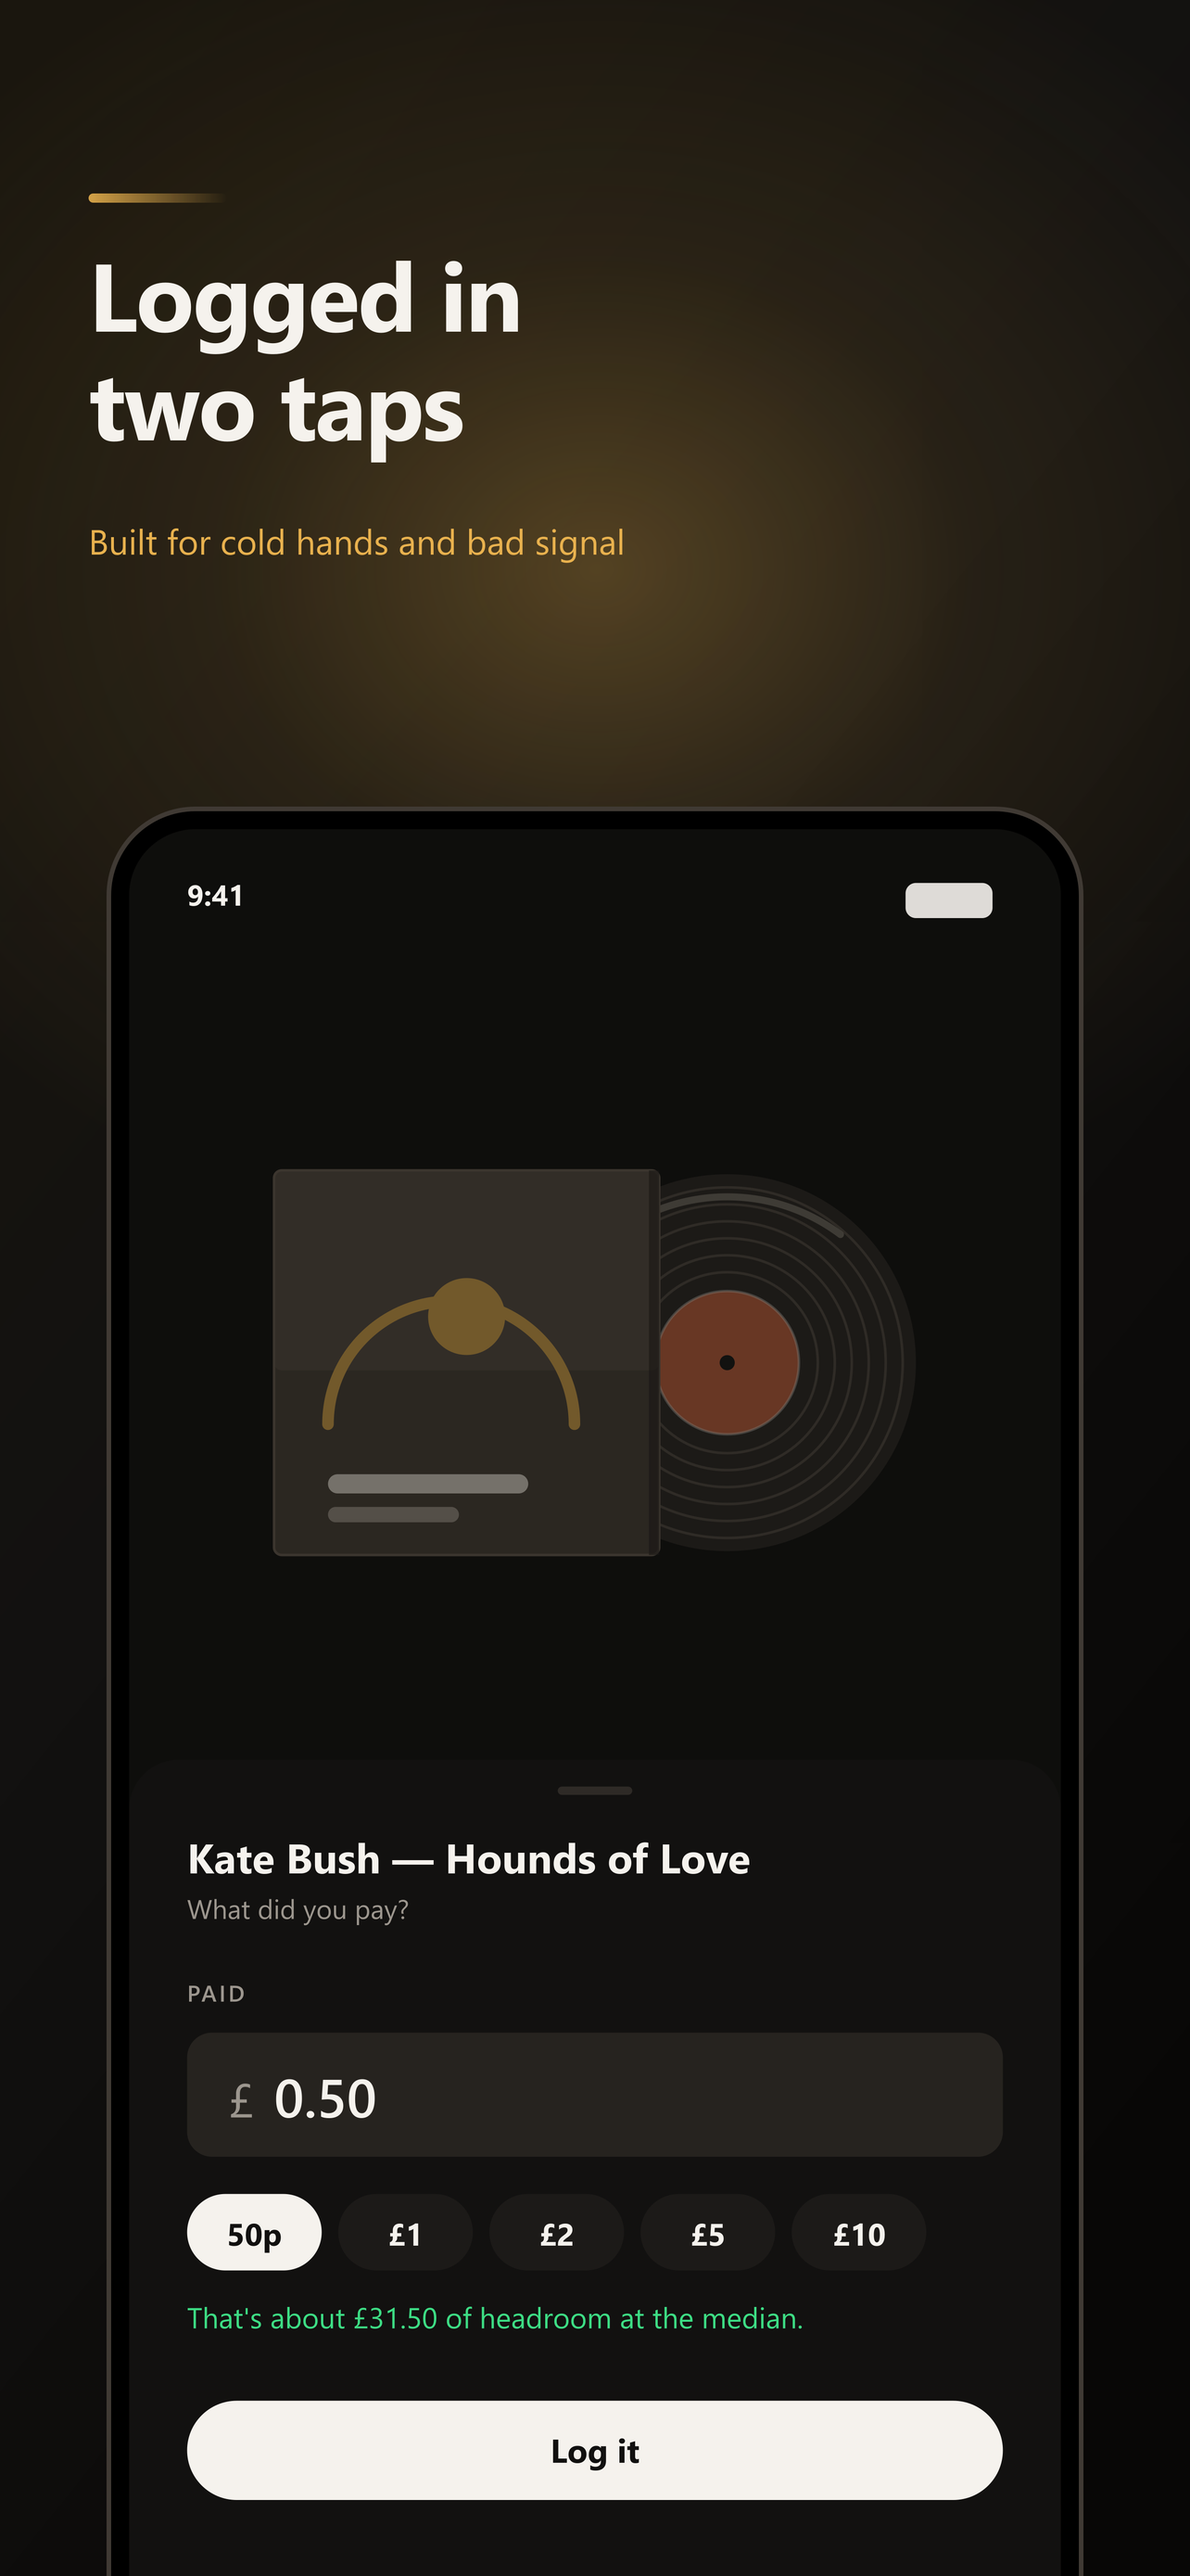
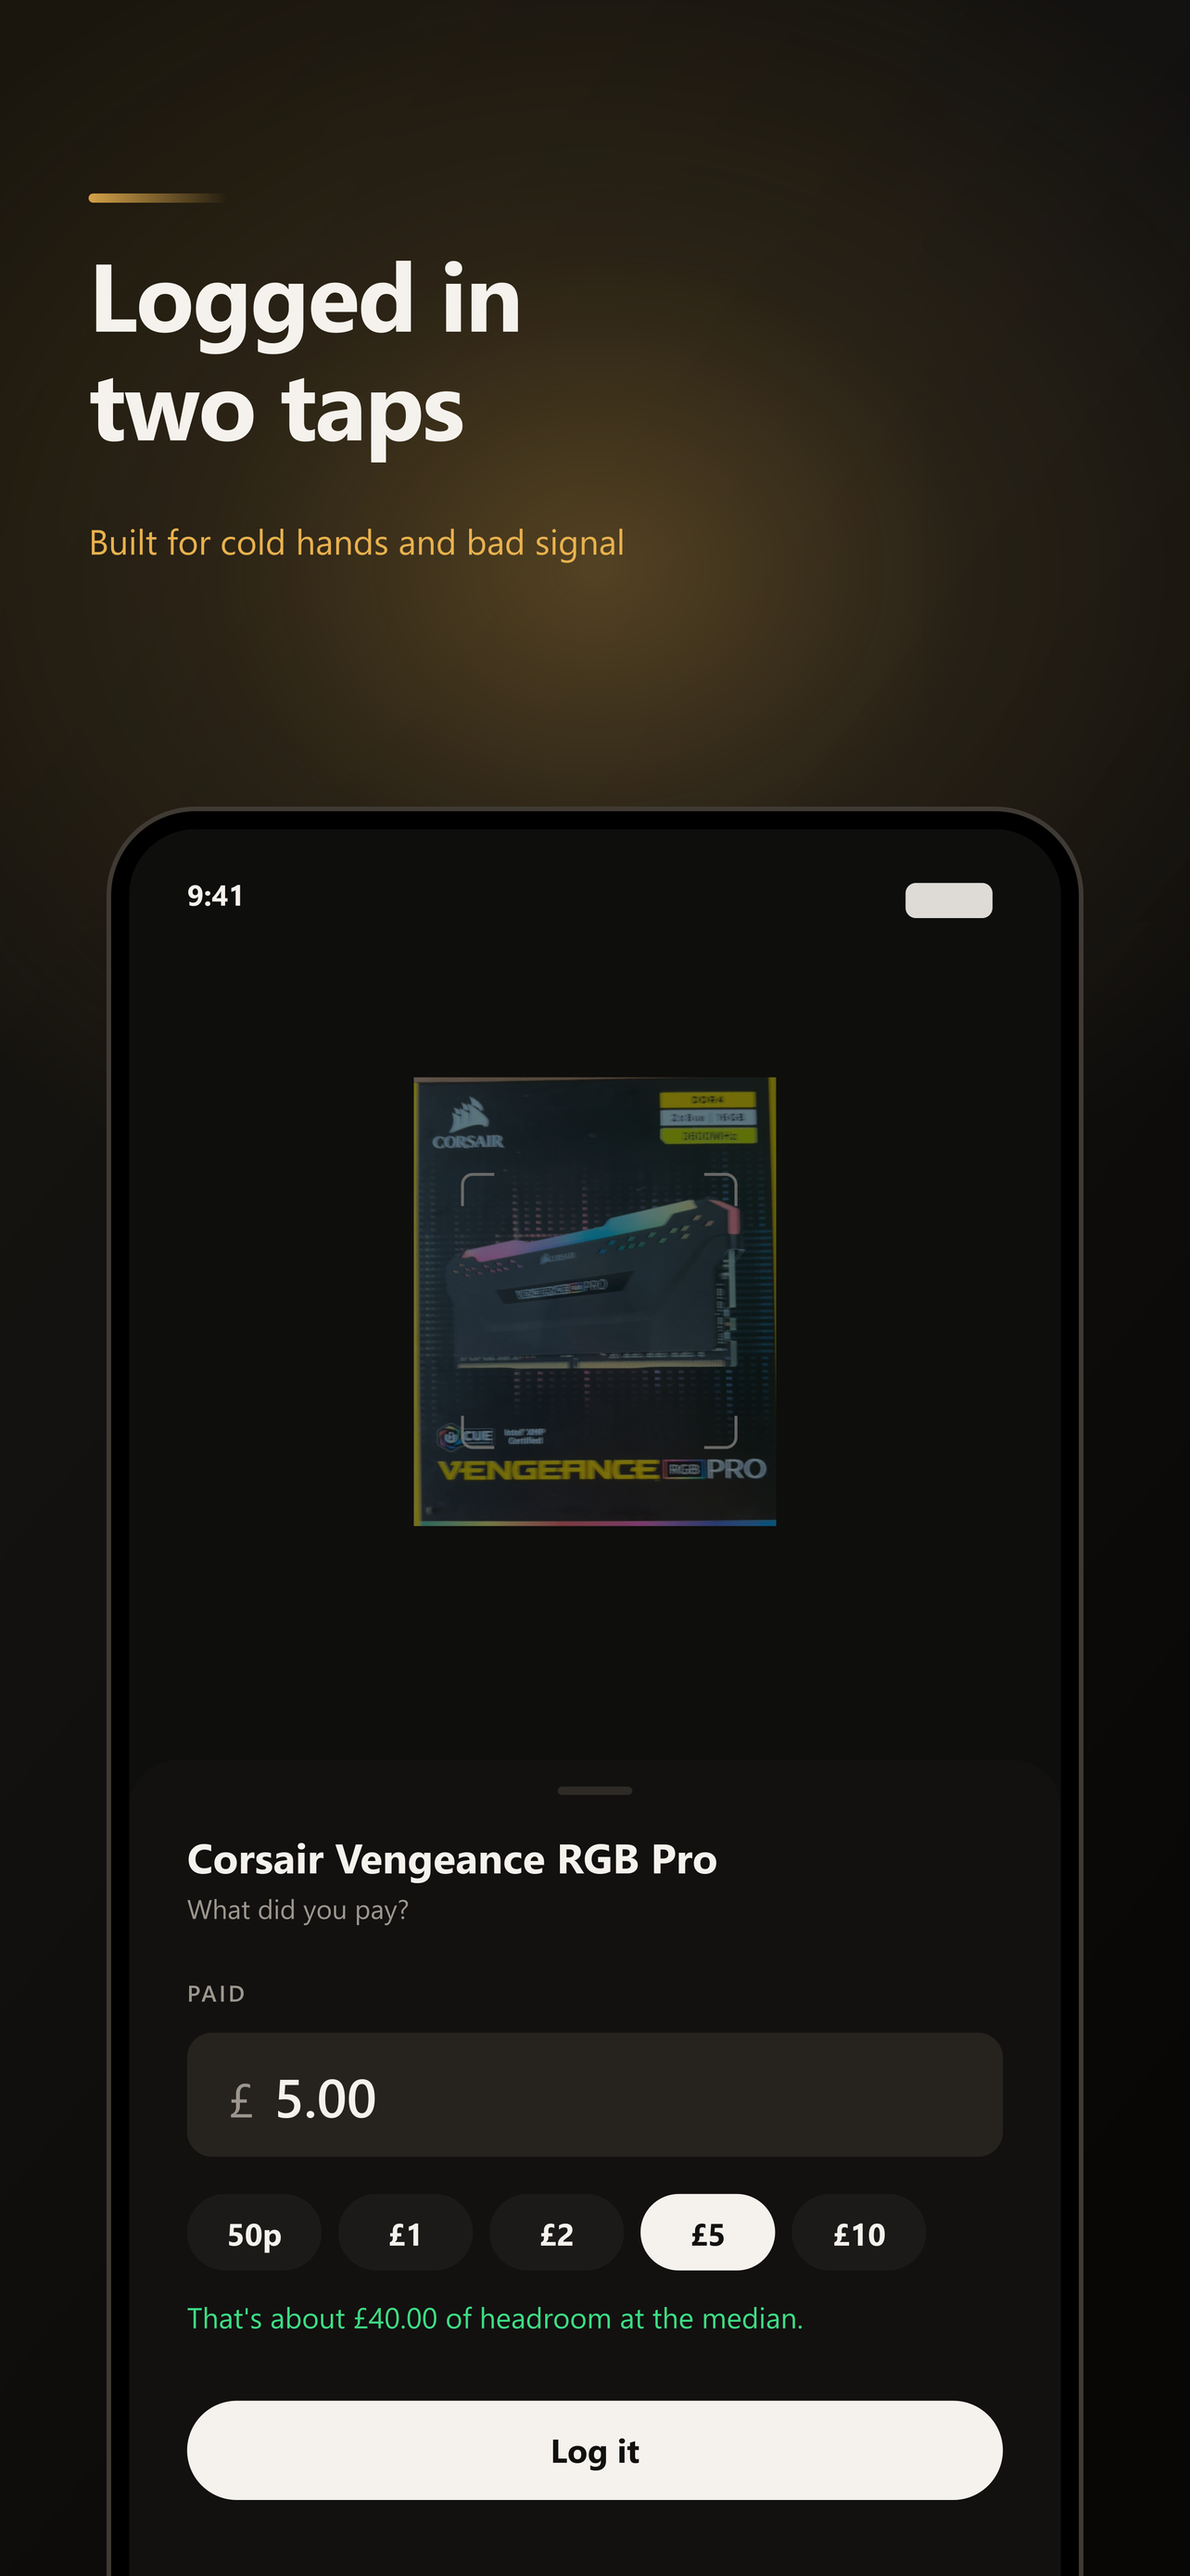
Real researched prices in the screenshots, and take the location out
Prices. The Corsair kit was showing a £38.50 median pulled out of the air.
A used Vengeance RGB Pro 16GB (2x8GB) DDR4-3600 sold on eBay UK at £45, with
a Gumtree listing at £60, so it's now £45 inside a £34-£62 spread and an £18
max buy — which is 40% of the median, the arithmetic in lib/money.ts and
nothing else. "Game Boy, boxed" was selling for £45, but £30-80 is a LOOSE
grey DMG-01 and boxed is a different animal; it's £120 now, with the profit
recomputed through the same fees and postage.

With GEMINI_WEB_PRICES on, the app can price a RAM kit, so shots 2-4 go back
to Jonny's own photo of one instead of the record they had to be while
Discogs was the only source. The caption says asking prices, because that is
what a web search returns. STORE.md records that this depends on the flag —
turn it off and a record has to go back in.

Location. "Made in Northern Ireland" in Settings and on the store listing,
"Bought in Lisburn" on screenshot 6, a Lisburn test fixture, and a governing
-law clause naming the jurisdiction. All gone: the app now says "Built by
one person" and the terms say the United Kingdom.

One thing this does not solve, and cannot: an app with in-app purchases has
a seller name and address published on its App Store page under Apple's
trader requirements. That comes from the App Store Connect account, not from
anything in this repo.

The store description is rewritten for both changes — it now leads with
[…]

diff --git a/server/test/export.test.ts b/server/test/export.test.ts
@@ -79,7 +79,7 @@ describe("GET /v1/finds/export", () => {
       body: JSON.stringify({
         name: "Sony Walkman, boxed",
         boughtPricePence: 50,
-        notes: "Car boot, Lisburn",
+        notes: "Sunday boot sale, second row",
       }),
     });
     const { find } = (await created.json()) as { find: { id: string } };
@@ -111,7 +111,7 @@ describe("GET /v1/finds/export", () => {
     expect(row).toContain("0.50");
     expect(row).toContain("42.00");
     expect(row).toContain("32.55");
-    expect(row).toContain("Car boot");
+    expect(row).toContain("Sunday boot sale");
   });
 
   it("returns just the header row for an empty portfolio", async () => {

diff --git a/app/src/app/(tabs)/settings.tsx b/app/src/app/(tabs)/settings.tsx
@@ -387,7 +387,7 @@ export default function SettingsScreen() {
             tone="tertiary"
             style={{ textAlign: "center", marginVertical: space.xl }}
           >
-            Boot Sale Buddy {Constants.expoConfig?.version ?? "dev"} · Made in Northern Ireland
+            Boot Sale Buddy {Constants.expoConfig?.version ?? "dev"} · Built by one person
           </Type>
         </Pressable>
 

diff --git a/server/src/legal.ts b/server/src/legal.ts
@@ -189,7 +189,7 @@ export const termsDoc: LegalDoc = {
     },
     {
       heading: "Law",
-      paragraphs: ["These terms are governed by the law of Northern Ireland."],
+      paragraphs: ["These terms are governed by the laws of the United Kingdom."],
     },
   ],
 };

diff --git a/STORE.md b/STORE.md
@@ -32,14 +32,12 @@ wastes characters. `car boot` is one word here because "boot" already
 appears in the name and Apple combines terms, while `carboot` also catches
 people who type it that way. Singular forms match plurals automatically.
 
-> **If you switch `GEMINI_WEB_PRICES` on, this file changes with it.** The
-> description and the review notes below both say there is no live price
-> source outside records and CDs. That stops being true the moment grounded
-> web pricing is enabled, and a listing that undersells the app is only
-> marginally better than one that oversells it. The lines to rewrite are the
-> "One tap to eBay sold prices for anything else" bullet, the HONEST ABOUT
-> PRICES paragraph, and the ABOUT THE PRICES paragraph in the review notes.
-> Screenshots 02–04 stop needing to be a record, too.
+> **This description assumes `GEMINI_WEB_PRICES` is on.** With it off, the
+> app can only price records, CDs and tapes, and the "any category" claims
+> below become false — rewrite the WHAT YOU GET bullets, the HONEST ABOUT
+> PRICES paragraph and the ABOUT THE PRICES review note, and put a record
+> back in screenshots 02–04. A listing must never describe a screen the
+> build can't render.
 
 ## Description
 
@@ -47,18 +45,18 @@ people who type it that way. Singular forms match plurals automatically.
 Point your camera at anything at a car boot sale and find out what it's
 worth — before you hand over the 50p.
 
-Boot Sale Buddy identifies the item from a photo, then helps you work out
-what it's actually worth and the most you should sensibly pay once selling
-fees and postage are taken off. No more standing in a field squinting at a
-half-rubbed-off model number.
+Boot Sale Buddy identifies the item from a photo, checks what ones like it
+are going for right now, and tells you the most you should sensibly pay
+once selling fees and postage come off. No more standing in a field
+squinting at a half-rubbed-off model number.
 
 Then it keeps score. Log what you paid, log what it sold for, and watch
 your profit stack up like a trading portfolio.
 
 WHAT YOU GET
 • Instant recognition — brand and model, not just "a cassette player"
-• Records and CDs priced from real completed sales on Discogs
-• One tap to eBay sold prices for anything else, search already filled in
+• Live prices for pretty much anything: tech, china, toys, tools, games
+• Records and CDs priced from what copies actually sold for
 • A suggested maximum buy price, so you know when to walk away
 • Log buys in two taps — built for cold hands and bad signal
 • Or add anything by hand: job lots, boxes of bits, stuff you bought years ago
@@ -66,13 +64,15 @@ WHAT YOU GET
 • Automatic profit maths after selling fees and postage
 • Your whole haul in one place: in stock, sold, and what you're up
 • Search your finds, and see how long each one's been sitting
+• One tap through to eBay, Vinted or Amazon to check for yourself
 • Share a card of your best flips
 
 HONEST ABOUT PRICES
-For records and CDs we show what copies actually sold for. For everything
-else we take you straight to eBay's sold listings with the search already
-worked out — because inventing a number would be worse than useless when
-you're about to spend your own money. Treat it as research, not a
+Most prices are what similar items are listed at right now, not what they
+finally sold for — we say which you're looking at, every time. For records
+and CDs we can show real completed sales, so we do. Nothing is ever
+invented: if we can't find enough genuine listings, we say so and hand you
+the search instead of a made-up number. Treat it as research, not a
 valuation.
 
 BUDDY PRO
@@ -81,15 +81,15 @@ Pro gives you unlimited scans, CSV export for your tax return and your
 whole haul backed up, from £1.99/month or £12.99/year — less than one good
 flip.
 
-Made in Northern Ireland for anyone who's ever paid 50p for something
-worth £40.
+Built by one person, for anyone who's ever paid 50p for something worth
+£40.
 ```
 
 ## Promotional text (170 chars, changeable without review)
 
 ```
-Records and CDs now priced from real completed sales. Point, scan, and know
-what it's worth before you buy.
+Now prices almost anything, not just records. Point, scan, and know what
+it's worth before you hand the money over.
 ```
 
 ## URLs
@@ -160,11 +160,13 @@ the shutter and pick any photo of an object from the library instead — it
 goes through exactly the same flow.
 
 ABOUT THE PRICES: for records and CDs the app shows prices derived from
-completed sales on Discogs, and labels them as such. For every other
-category no live price source is available to us, so the app says so
-plainly and offers one-tap links to eBay sold listings, Vinted and Google
-Shopping with the search term pre-filled. We deliberately never invent or
-estimate a price.
+completed sales on Discogs and labels them as such. For other categories it
+runs a live web search and reports what similar items are currently LISTED
+at, labelled as asking prices, never as sold. Prices the search cannot back
+with real sources are discarded rather than shown, and the app then says it
+has no price and offers one-tap links to eBay, Vinted and Google Shopping
+with the search term pre-filled. We deliberately never invent or estimate a
+price.
 
 Account deletion is in Settings -> Delete account & data, and removes all
 server-side data immediately.
@@ -198,25 +200,27 @@ that order — they carry the pitch on their own.
 | 08 | Share card | Share the wins |
 | 09 | Paywall | Less than one good flip |
 
-**Shots 02, 03 and 04 must stay a record, and that is not a styling
-choice.** They're the only three that show a live price, a price range and a
-max-buy figure, and records, CDs and tapes are the only category the app can
-produce those for. Everything else gets the honest "no live price — here's
-the search" panel, so a priced-up anything-else would be advertising a
-screen the app cannot render: a 2.3.3 rejection risk, and a lie to whoever
-installs on the strength of it. If eBay (or another source) ever comes
-through, that constraint lifts and any category can carry those shots.
+**Shots 02, 03 and 04 show a live price, a range and a max-buy figure, so
+they depend on `GEMINI_WEB_PRICES` being on.** With it off the app can only
+price records, CDs and tapes, and a priced-up RAM kit would be advertising a
+screen the build cannot render — a 2.3.3 rejection risk and a lie to whoever
+installs on the strength of it. Put a record back in these three if the flag
+ever comes off.
 
-Two spots take your own photography, both optional:
+**Every figure in the set is researched, not invented.** The Corsair kit on
+02–04 is at £45 because that is what a used one sold for on eBay UK, inside
+a £34–£62 spread from live listings; the max buy is 40% of the median,
+which is the arithmetic in `server/src/lib/money.ts`. The portfolio rows and
+the Profit tab reconcile with each other — the haul value is the two
+in-stock rows added up, and "best flip ever" really is the largest. If you
+re-shoot, keep them reconciling: one number that doesn't add up makes a
+viewer distrust all the others.
 
-| File | Used for | If missing |
-|---|---|---|
-| `raw/item.jpg` | The scanned item on 01, and its thumbnail on 05–08 | A drawn cassette player |
-| `raw/record.jpg` | The record on 02–04 | A drawn sleeve and disc |
-
-Drop a **phone screenshot** in either slot and the script trims the status
-bar, shutter and tab bar off it automatically — anything taller than 2:1 is
-assumed to be a capture. An ordinary photo passes through untouched.
+Drop your own photo at `raw/item.jpg` (jpg, jpeg or png) and it's used for
+the scanned item on 01 and its thumbnail on 05–08; without one you get a
+drawn cassette player. A **phone screenshot** works — the script trims the
+status bar, shutter and tab bar off anything taller than 2:1. An ordinary
+photo passes through untouched.
 
 Do not use the empty states in screenshots. An empty app looks like a
 broken app.
